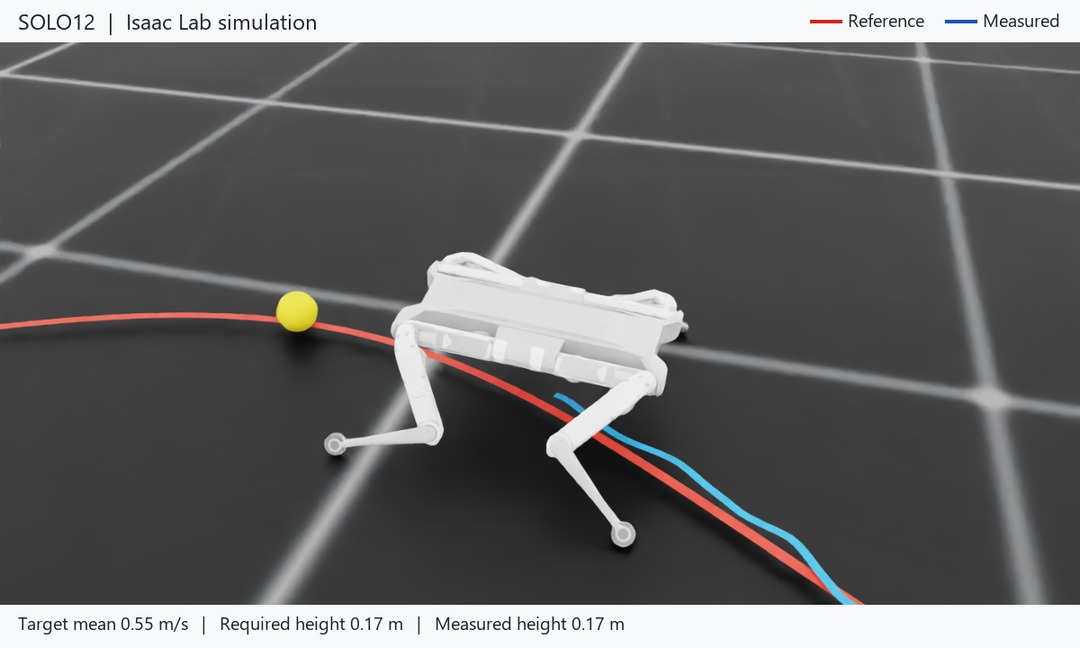
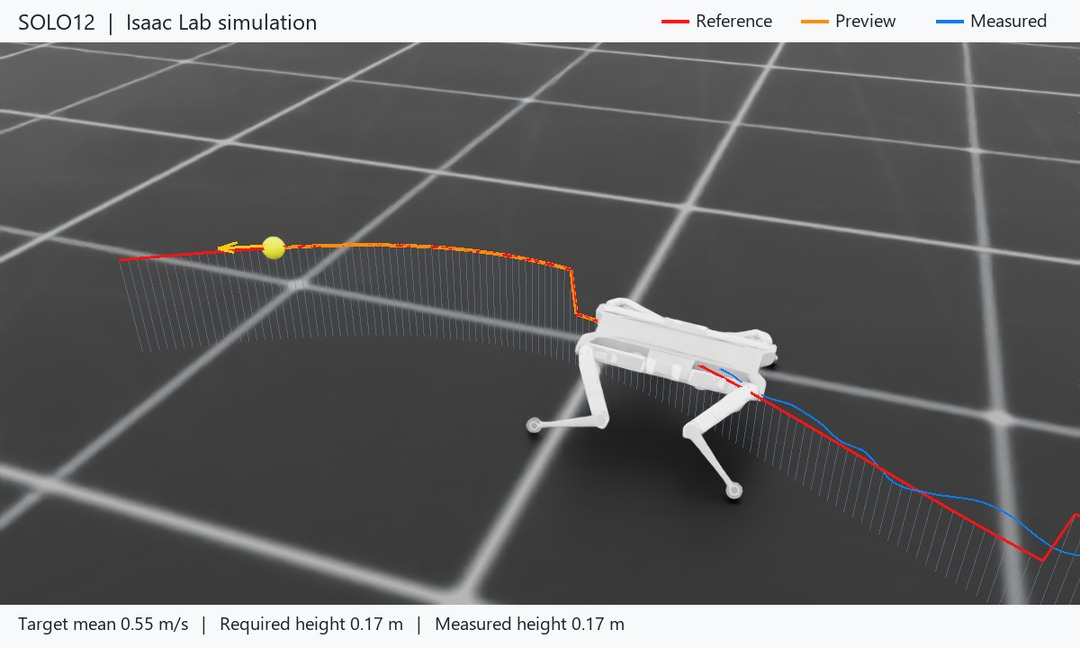
Capture README demos with the native height-aware path visualizer

Changed region(s): [[0.0, 0.0, 1.0, 0.9568], [0.7333, 0.7099, 0.7639, 0.7407], [0.3667, 0.0617, 0.3972, 0.0926]]

diff --git a/docs/project/media/README.md b/docs/project/media/README.md
@@ -12,11 +12,15 @@ These assets are captured from live closed-loop WC-DPPO playback in Isaac Lab, n
 - Required base height: 0.2932 m, then 0.1705 m between route distances 1.6 and 2.8 m, then 0.2932 m again.
 - Requested route-average speed: 0.55 m/s; instantaneous speed is not commanded to stay constant.
 - Physics at 200 Hz, control at 50 Hz, four actions executed per diffusion plan.
-- Red: reference XY. Blue: measured base XY. Yellow: a display-only guide 0.55 m ahead along the reference, not the complete policy preview.
+- Red: the reference XYZ, including required height changes. Grey vertical guides connect it to the ground.
+- Orange: the upcoming reference segment. Blue: the measured base trajectory in 3D.
+- Yellow: the native future target, centred on its reference XYZ point; the short golden arrow shows its yaw.
 
 The GIF is a continuous fixed-camera traverse, resampled to 12.5 frames/s and compressed for GitHub. It ends near the final waypoint; later playback is retained locally. Its playback speed follows simulated time. Recording with rendering enabled is not evidence of wall-clock real-time inference.
 
-The two close-up photos come from a separate seeded playback of the same actor and reference. The on-image measured heights come from the simulator state. Presentation cameras and non-colliding visual overlays do not change policy inputs, rewards or physics.
+The two close-up photos come from the same seeded rollout. The on-image measured heights come from the simulator state. No physics steps are taken while capturing a close-up; the wide camera is restored before recording the next animation frame.
+
+The route, preview, measured trace, sphere and heading arrow are drawn by the existing `PathDebugVisualizer`, exactly as in interactive playback. The sphere marks a future waypoint, so its height can differ from the robot's current required height. It is not an auxiliary guide added for the screenshots. Only the presentation camera and capture mechanism differ; policy inputs, rewards and physics are unchanged.
 
 This is an illustrative episode, not a benchmark success rate, proof of optimal temporal allocation, or real-robot validation. Aggregate evidence and limits are in [results](../results.md).
 
@@ -33,4 +37,4 @@ The [route array](demo_route.npy) contains `[x, y, required_height]` points in t
   --visualize_actual_path --visualize_height --device cuda:0
 ```
 
-The interactive viewer uses its existing camera and debug overlays, which differ from the fixed presentation camera used here. [Provenance](provenance.json) records the actor SHA-256, reference, screenshot states, asset hashes and trim rule. Raw frames and capture tooling remain local.
+The interactive viewer uses its usual robot-following camera; the overlays are the same as those captured here. [Provenance](provenance.json) records the actor and visualizer SHA-256, reference, screenshot states, asset hashes and trim rule. Raw frames and capture tooling remain local.

diff --git a/README.md b/README.md
@@ -8,7 +8,7 @@ The controller receives a route, a body-height profile and a target average spee
 
 ![SOLO12 following a curved route and changing posture in Isaac Lab](docs/project/media/route_posture_demo.gif)
 
-*A live policy rollout in Isaac Lab: WC-DPPO follows a 4 m curved reference with walk→crouch→walk height requirements and a requested mean of 0.55 m/s. Red is the reference and blue the measured trace; the yellow marker is a visual look-ahead guide. The GIF shows the active traverse at simulated speed—not hardware or a wall-clock real-time demonstration. [Demo details and reference](docs/project/media/README.md).*
+*A live policy rollout in Isaac Lab: WC-DPPO follows a 4 m curved reference with walk→crouch→walk height requirements and a requested mean of 0.55 m/s. The usual viewer overlays are retained: red is the 3D reference at the required height, orange the upcoming segment, blue the measured base trace, and yellow the future target with its yaw arrow. The GIF shows the active traverse at simulated speed—not hardware or a wall-clock real-time demonstration. [Demo details and reference](docs/project/media/README.md).*
 
 ## From existing behaviours to path-conditioned control
 
